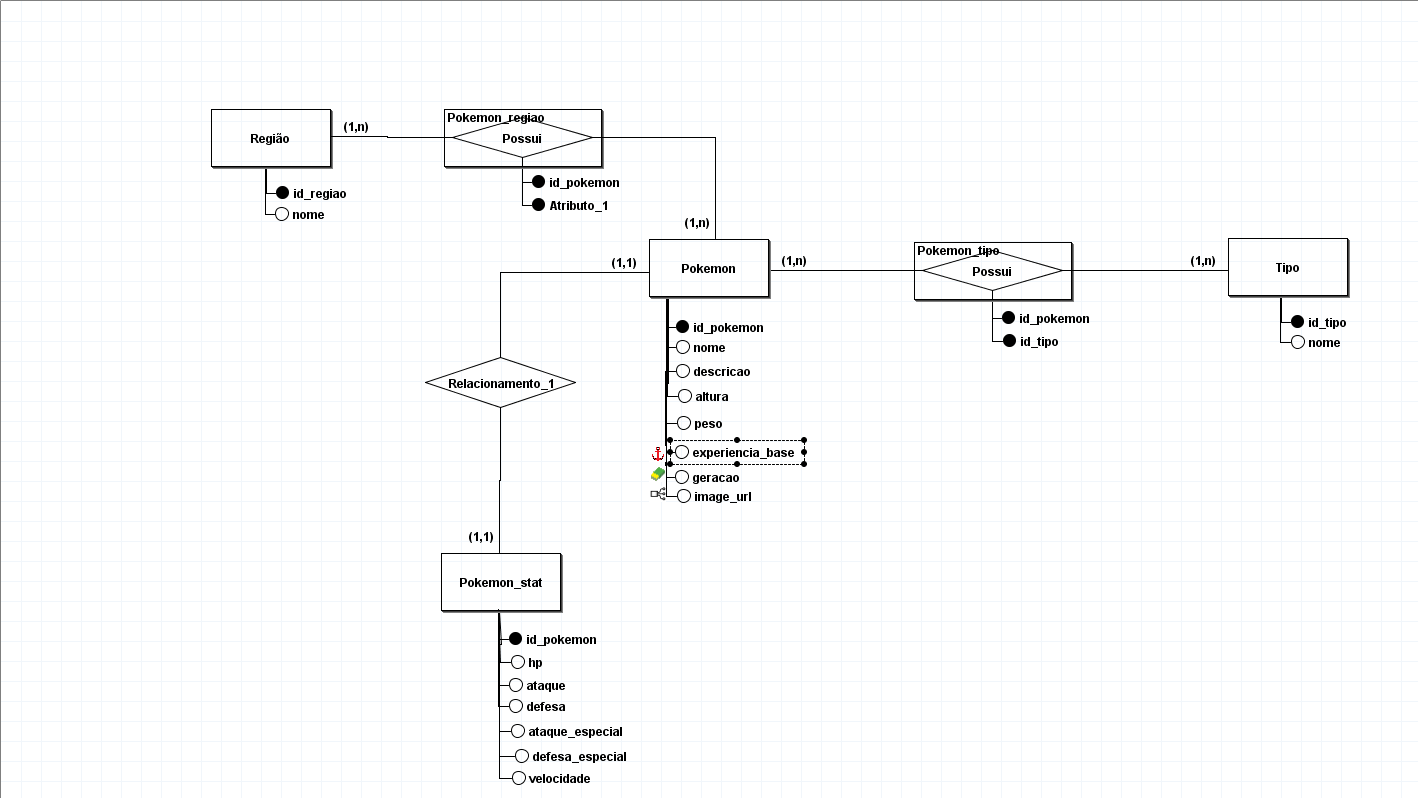
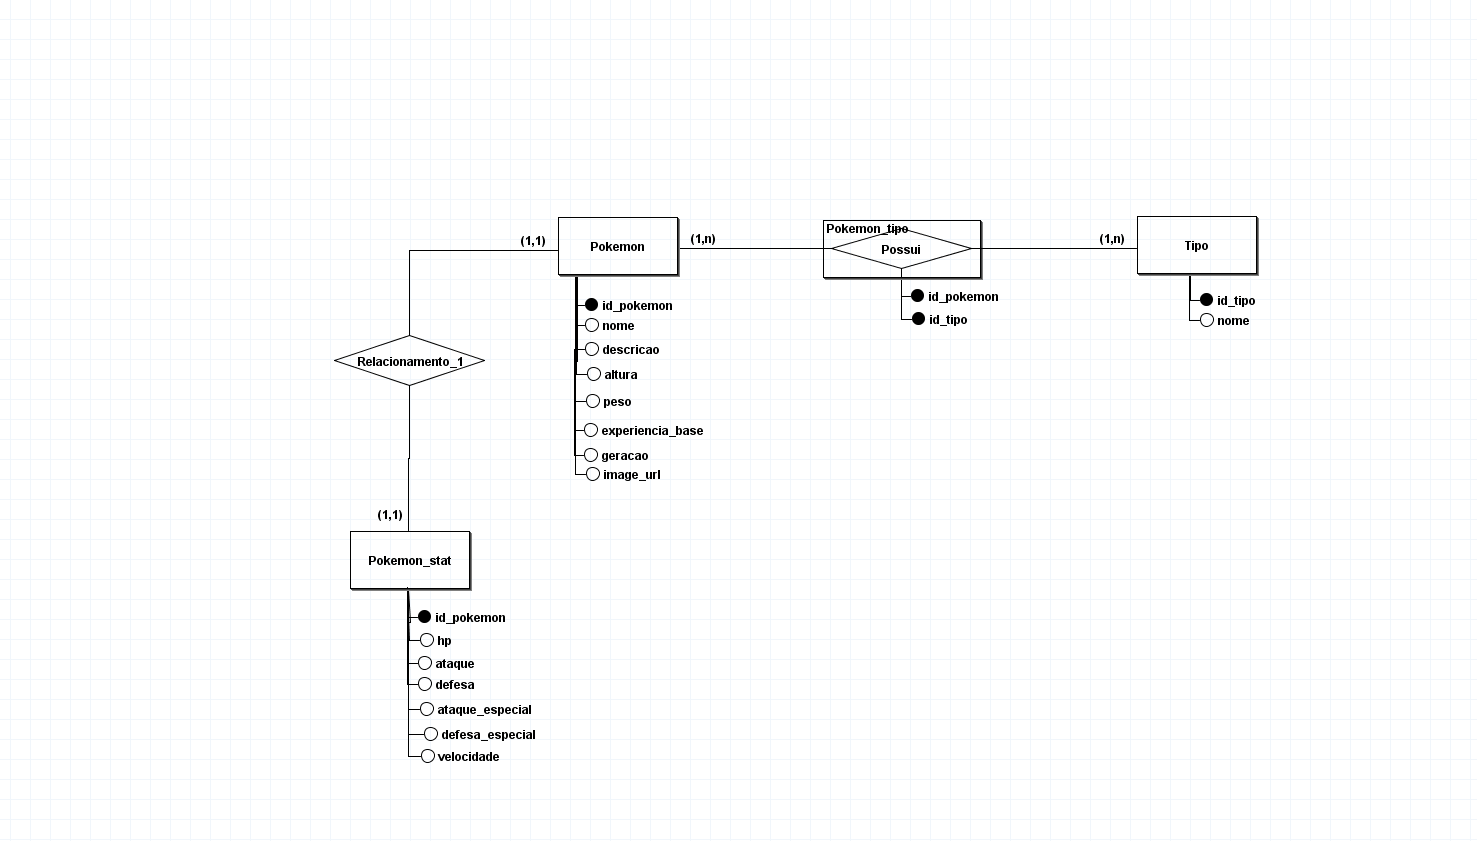
Extraindo dados de um único pokemon e todos os tipos

diff --git a/requisicao/extraindo.py b/requisicao/extraindo.py
@@ -1,0 +1,110 @@
+import requests
+
+
+api_base_url = 'https://pokeapi.co/api/v2'
+
+##Requisitando pokemon
+def pokemon_id(id = int):
+    id_list = []
+    
+    try:
+        page_url = f'{api_base_url}/pokemon/{id}/'
+        response = requests.get(page_url)
+        response.raise_for_status()
+
+
+        id_list.append(response.json())
+
+    except requests.RequestException as error:
+        print(f"Erro ao buscar pokemon, id: {id}")
+        id_list.append(None)
+    return id_list
+
+
+##Requisitando status
+def stats(pokemon_list):
+    abili = []
+    for abi in pokemon_list:
+        abili.append(abi['stats'])
+    st = []
+    for status in abili:
+        for base in status:
+            st.append([base['stat']['name'], base['base_stat']])
+    return st
+    
+##Requisitando Imagem, descrição e característica do pokemon
+def pokemon(pokemon_list, id):
+    ##Imagem
+    imagem_list = []
+    try:
+        page_url = f'{api_base_url}/pokemon/{id}'
+        response = requests.get(page_url)
+        response.raise_for_status()
+
+        imagem_list.append(response.json())
+        for g in imagem_list:
+            gif = g['sprites']['versions']['generation-v']['black-white']['animated']['front_default']
+
+    except requests.RequestException as error:
+            print(f"Erro ao requisitar a geração do pokemon, id: {id}")
+
+
+    ##Descrição e geração
+    try:
+        page_url = f'{api_base_url}/pokemon-species/{id}'
+        response = requests.get(page_url)
+        response.raise_for_status()
+
+
+        geracao_data = response.json()
+        geracao = geracao_data['generation']['name']
+        
+        desc_data = response.json()
+
+        descricao = None
+        for desc in desc_data['flavor_text_entries']:
+            if desc['language']['name'] == 'en':
+                descricao = desc['flavor_text']
+                break
+
+    except requests.RequestException as error:
+        print(f'Erro ao requisitar descrição, id: {id}')
+        ## Características
+    try:
+        for carac in pokemon_list:
+            pokemon_data = [carac['id'], 
+                            carac['name'],
+                            descricao,
+                            carac['height'], 
+                            carac['weight'], 
+                            carac['base_experience'], 
+                            gif, geracao]
+            
+    except KeyError:
+        print(f"Erro ao requisitar caracteristicas do pokemon, id: {id}")
+            
+    return pokemon_data
+
+
+
+
+
+
+
+id = 4
+print(pokemon(pokemon_id(id), id))
+
+def tipo():
+    page_url = f'{api_base_url}/type'
+    response = requests.get(page_url)
+    dados = response.json()
+
+    tipo_list = []
+    for tipo in dados['results']:
+        tipo_list.append(tipo['name'])
+
+    return tipo_list
+
+print(tipo())
+
+
